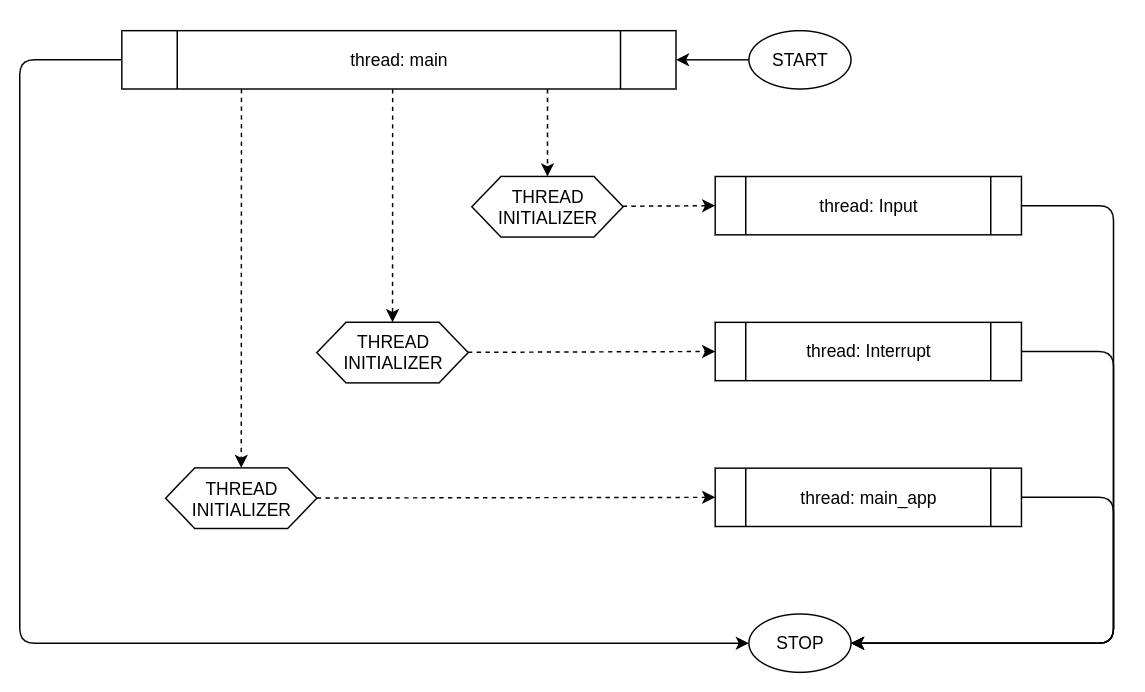
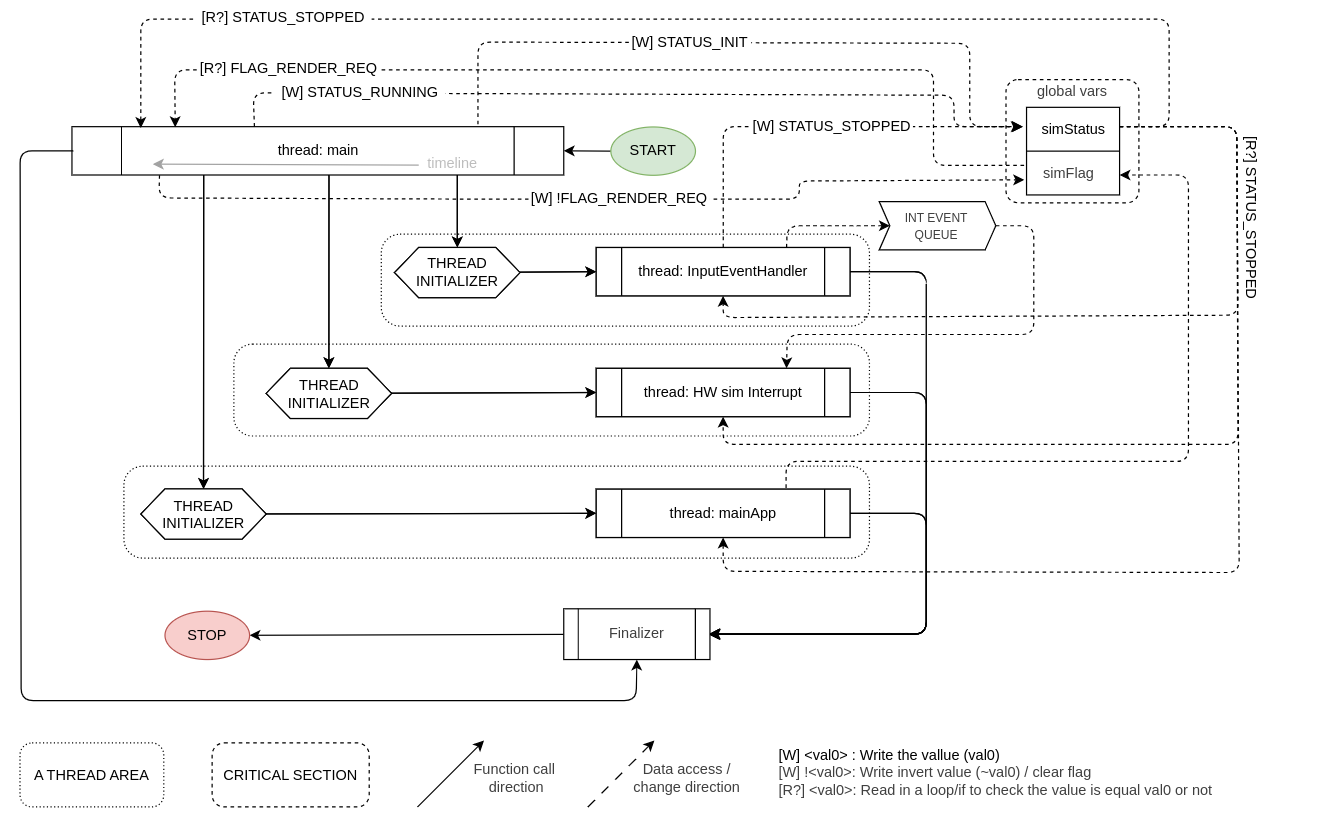
v.0.0.x - Adding flowchart/dataflow

diff --git a/README.md b/README.md
@@ -61,7 +61,13 @@ To start the simulation, you need to define pseudo hardware API (including GPIO 
 
 ## Flowchart
 
+### Simplified flowchart and dataflow
+
+The core variables of the project are  `simFlag`, `simStatus`, `simInterruptEventQueue`. They control most of the behavior of the simulation. The orders just created to make the simulation safer!
+
 ![flowchart](imgs/image.png)
+
+The **inputEventHandler** control the defined event (like `quit`, `HW interrupt simulation`).
 
 # Collection
 
